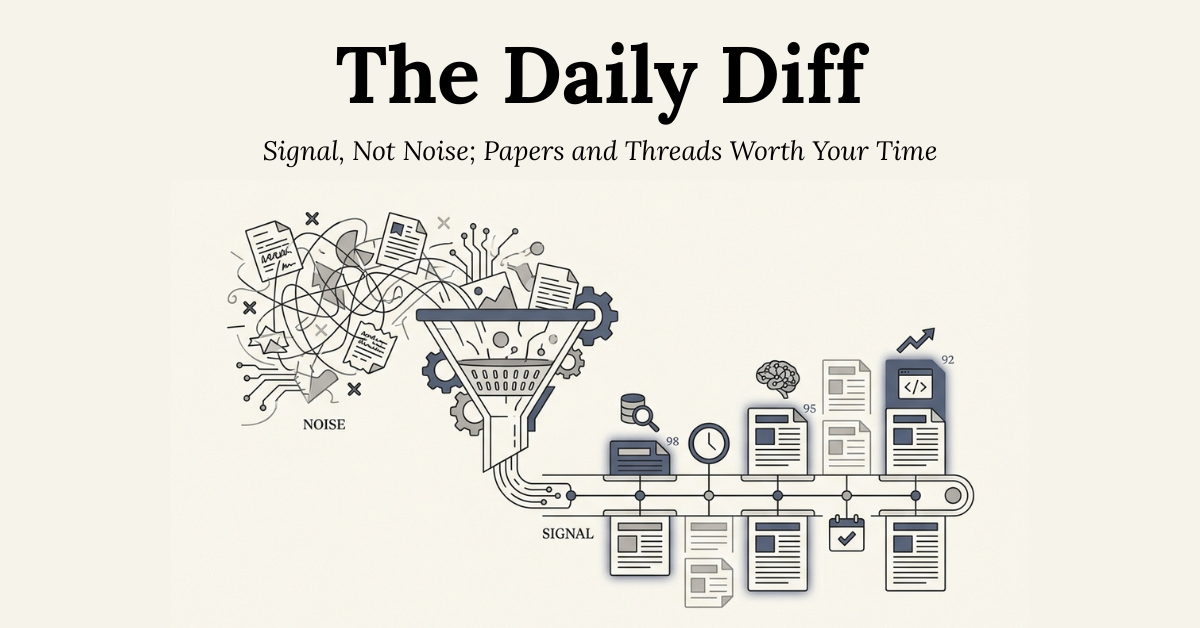
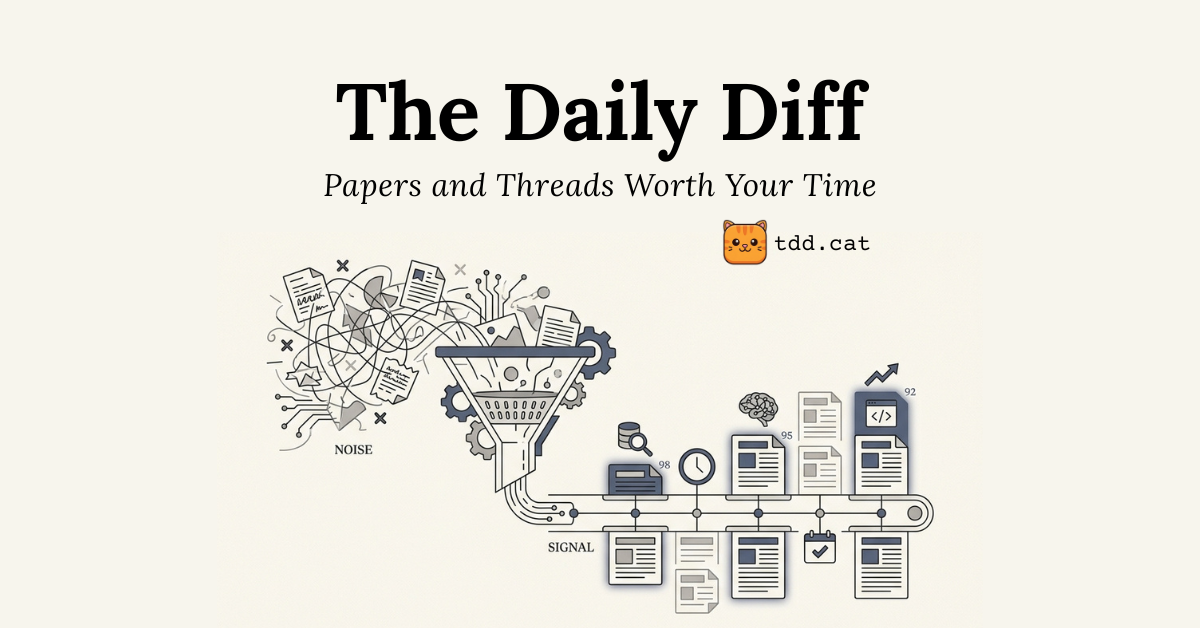
Apply text-stroke and text-shadow to make masthead title bolder
- Add 1.2px currentColor text-stroke to masthead-name class
- Add 0.5px currentColor text-shadow to masthead-name class

Changed region(s): [[0.185, 0.0605, 0.8325, 0.9682]]

diff --git a/src/styles/main.scss b/src/styles/main.scss
@@ -854,9 +854,11 @@ img { max-width: 100%; display: block; }
 .masthead-name {
   font-family: var(--font-display);
   font-weight: 900;
-  font-size: clamp(2.2rem, 4.8vw, 3.2rem);
-  letter-spacing: -0.01em;
+  font-size: clamp(2.5rem, 5vw, 3.85rem);
+  letter-spacing: -0.00em;
   margin: 0;
+  -webkit-text-stroke: 1.2px currentColor;
+  text-shadow: 0.5px 0 0 currentColor;
 }
 
 .masthead-tagline {
